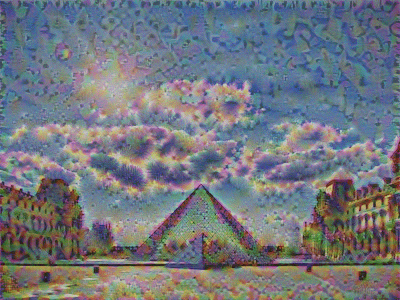
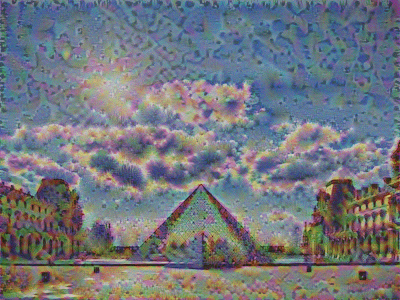
tmp

diff --git a/BOBInvalidAccountsPredict.py b/BOBInvalidAccountsPredict.py
@@ -73,7 +73,7 @@ def eval_input_fn(features, labels, batch_size):
 
 parser = argparse.ArgumentParser()
 parser.add_argument('--batch_size', default=100, type=int, help='batch size')
-parser.add_argument('--train_steps', default=2000, type=int, help='number of training steps')
+parser.add_argument('--train_steps', default=1000, type=int, help='number of training steps')
 
 
 def main(argv):
@@ -88,13 +88,24 @@ def main(argv):
         my_feature_columns.append(tf.feature_column.numeric_column(key=key))
 
     # Build 2 hidden layer DNN with 10, 10 units respectively.
-    classifier = tf.estimator.DNNClassifier(feature_columns=my_feature_columns, hidden_units=[10, 10], n_classes=2,
-                                            activation_fn=tf.nn.relu, model_dir="/tmp/bobInvalidAccPredict/",
-                                            optimizer="Adam")
+    classifier = tf.estimator.DNNClassifier(feature_columns=my_feature_columns,
+                                            hidden_units=[100, 100, 100, 100, 100],
+                                            n_classes=2,
+                                            activation_fn=tf.nn.relu,
+                                            model_dir="/tmp/bobInvalidAccPredict/",
+                                            optimizer=tf.train.ProximalAdagradOptimizer(learning_rate=0.001, l2_regularization_strength=0.0))
 
     # Train the Model.
-    # classifier.train(input_fn=lambda: train_input_fn(train_x, train_y, args.batch_size), steps=args.train_steps)
-    classifier.train(input_fn=lambda: train_input_fn(train_x, train_y, args.batch_size))
+    classifier.train(input_fn=lambda: train_input_fn(train_x, train_y, args.batch_size), steps=args.train_steps)
+    # classifier.train(input_fn=lambda: train_input_fn(train_x, train_y, args.batch_size))
+
+
+    # Evaluate the model.
+    eval_result = classifier.evaluate(input_fn=lambda: eval_input_fn(train_x, train_y, args.batch_size))
+
+    print(eval_result)
+    print('\nTrain set accuracy: {accuracy:0.3f}\n'.format(**eval_result))
+
 
     # Evaluate the model.
     eval_result = classifier.evaluate(input_fn=lambda: eval_input_fn(test_x, test_y, args.batch_size))

diff --git a/ART_GENERATION_WITH_NEURAL_STYLE_TRANSFER.py b/ART_GENERATION_WITH_NEURAL_STYLE_TRANSFER.py
@@ -74,19 +74,20 @@ def compute_layer_style_cost(a_S, a_G):
 
     ### START CODE HERE ###
     # Retrieve dimensions from a_G (≈1 line)
-    m, n_H, n_W, n_C = a_G.get_shape()
+    m, n_H, n_W, n_C = a_G.get_shape().as_list()
 
     # Reshape the images to have them of shape (n_H*n_W, n_C) (≈2 lines)
-    a_S = tf.transpose(tf.reshape(a_S, shape=(n_H*n_W, n_C)))
-    a_G = tf.transpose(tf.reshape(a_G, shape=(n_H*n_W, n_C)))
+    a_S = tf.reshape(a_S, shape=(n_H*n_W, n_C))
+    a_G = tf.reshape(a_G, shape=(n_H*n_W, n_C))
 
     # Computing gram_matrices for both images S and G (≈2 lines)
     GS = gram_matrix(a_S)
     GG = gram_matrix(a_G)
 
+    print(GS.shape)
+
     # Computing the loss (≈1 line)
-    J_style_layer = tf.reduce_sum(tf.square(tf.subtract(GS, GG)))  #/(4*(n_C*n_C)*(n_W*n_H)*(n_W*n_H))
-    print(J_style_layer)
+    J_style_layer = tf.reduce_sum(tf.square(tf.subtract(GS, GG))) / (4)
 
     ### END CODE HERE ###
 
@@ -165,11 +166,14 @@ def total_cost(J_content, J_style, alpha=10, beta=40):
 
 
 
+
 # Reset the graph
 tf.reset_default_graph()
 
 # Start interactive session
 sess = tf.InteractiveSession()
+
+
 
 content_image = scipy.misc.imread("images/louvre_small.jpg")
 content_image = reshape_and_normalize_image(content_image)
@@ -179,6 +183,9 @@ style_image = reshape_and_normalize_image(style_image)
 
 generated_image = generate_noise_image(content_image)
 imshow(generated_image[0])
+
+plt.show()
+
 
 model = load_vgg_model("pretrained-model/imagenet-vgg-verydeep-19.mat")
 
@@ -198,7 +205,6 @@ a_G = out
 
 # Compute the content cost
 J_content = compute_content_cost(a_C, a_G)
-
 
 sess.run(model['input'].assign(style_image))
 

diff --git a/test.py b/test.py
@@ -1,6 +1,23 @@
+import numpy as np
+import scipy.io
+import scipy.misc
+
 test_y = [1, 2, 3, 4, 5, 6]
 
 
 for (test, rg) in zip(test_y, range(1, 3)):
     print(test)
     print(rg)
+
+
+content_image = scipy.misc.imread("images/louvre_small.jpg")
+print(content_image.shape)
+print((1,) + content_image.shape)       # 添加一个维度
+print(content_image)
+
+MEANS = np.array([123.68, 116.779, 103.939]).reshape((1,1,1,3))
+print(MEANS)
+
+image = np.reshape(content_image, ((1,) + content_image.shape))
+image = image - MEANS
+print(image)
